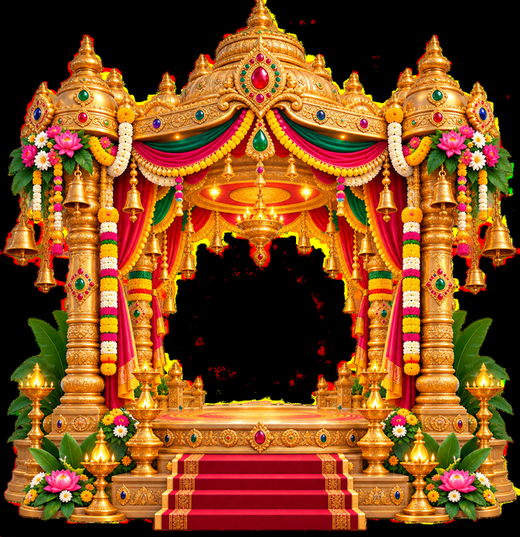
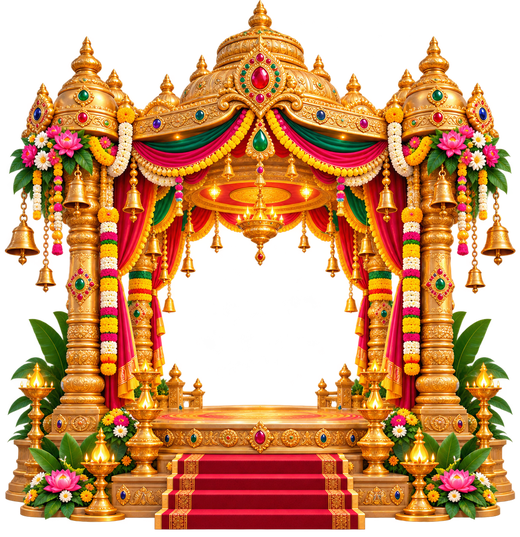
Game: transparent Mandapam, entry cutscene with Ganesha seated inside

diff --git a/frontend/src/components/ModakQuest.js b/frontend/src/components/ModakQuest.js
@@ -117,6 +117,7 @@ export default function ModakQuest({ onClose }) {
       items: [], obstacles: [], parts: [], petals: [], dust: [],
       bgX: 0, spawnT: 30, obsT: 90, flash: 0,
       gate: null, done: false, dead: false,
+      cut: null,   // entry cutscene: { t, gx, sitting }
     };
   }, []);
 
@@ -206,13 +207,14 @@ export default function ModakQuest({ onClose }) {
       if (g.sliding && --g.slideT <= 0) g.sliding = false;
       if (g.inv > 0) g.inv--;
 
-      if (g.sliding) g.frame = SLIDE_FRAME;
+      if (s.cut && s.cut.sitting) g.frame = SLIDE_FRAME;   // seated inside the Mandapam
+      else if (g.sliding) g.frame = SLIDE_FRAME;
       else if (g.onGround) {
         g.frameT += s.speed * 0.022;
         if (g.frameT >= 1) { g.frameT = 0; g.frame = (g.frame + 1) % FRAME_COUNT; }
       } else g.frame = 6;
 
-      const gx = W * 0.17;
+      const gx = s.cut ? W*0.17 + Math.min(1, s.cut.t/70) * (W*0.16) : W * 0.17;
       const gh = g.sliding ? g.h * 0.62 : g.h;
       const gw = g.sliding ? g.w * 1.12 : g.w;
       const gy = groundY - gh + g.y;
@@ -228,7 +230,7 @@ export default function ModakQuest({ onClose }) {
                                         return p.x > -30 && p.y < H+20; });
 
       /* ---- spawning (stops once the gate is in view) ---- */
-      if (!s.gate) {
+      if (!s.gate && !s.cut) {
         if (--s.spawnT <= 0) {
           s.spawnT = 46 + Math.random()*40;
           const n = 1 + Math.floor(Math.random()*4);
@@ -272,7 +274,7 @@ export default function ModakQuest({ onClose }) {
       for (const o of s.obstacles) {
         o.x -= s.speed;
         if (o.kind === 'mover') o.y = o.base + Math.sin(s.t/26 + o.ph) * o.amp;
-        if (g.inv > 0) continue;
+        if (g.inv > 0 || s.cut) continue;
         const ob = { x:o.x-o.w/2, y:o.y, w:o.w, h:o.h };
         if (hb.x < ob.x+ob.w && hb.x+hb.w > ob.x && hb.y < ob.y+ob.h && hb.y+hb.h > ob.y) {
           s.lives--; g.inv = 95; s.flash = 18;
@@ -381,6 +383,20 @@ export default function ModakQuest({ onClose }) {
       for (const p of s.parts) { ctx.globalAlpha=p.a; ctx.fillStyle='#ffd970';
         ctx.beginPath(); ctx.arc(p.x,p.y,p.r,0,7); ctx.fill(); }
       ctx.globalAlpha = 1;
+      if (s.cut && s.cut.sitting) {
+        const k = Math.min(1, (s.cut.t-0)/40);
+        const cgr = ctx.createRadialGradient(gx+30, groundY-80, 8, gx+30, groundY-80, 210);
+        cgr.addColorStop(0, `rgba(255,220,130,${0.34*k})`);
+        cgr.addColorStop(1, 'rgba(255,220,130,0)');
+        ctx.fillStyle = cgr; ctx.fillRect(gx-190, groundY-290, 440, 330);
+        ctx.globalAlpha = k; ctx.textAlign = 'center';
+        ctx.font = 'bold 22px Inter, sans-serif'; ctx.fillStyle = '#fff3d6';
+        ctx.shadowColor = 'rgba(0,0,0,.7)'; ctx.shadowBlur = 10;
+        ctx.fillText('गणपति बाप्पा मोरया!', W/2, groundY + 56);
+        ctx.font = '600 14px Inter, sans-serif';
+        ctx.fillText('Ganesha is seated in the Mandapam', W/2, groundY + 80);
+        ctx.shadowBlur = 0; ctx.globalAlpha = 1;
+      }
       if (s.flash > 0) { ctx.globalAlpha=s.flash/18*.45; ctx.fillStyle='#fff';
         ctx.fillRect(0,0,W,H); ctx.globalAlpha=1; s.flash--; }
 
@@ -388,12 +404,31 @@ export default function ModakQuest({ onClose }) {
         stage: s.stage, lives: s.lives, prog: Math.min(1, s.dist/s.goal) });
 
       /* ---- reached the Mandapa? ---- */
-      if (s.gate && s.gate.x + 150 <= gx && !s.done) {
-        s.done = true;
+      if (s.gate && s.gate.x + 150 <= gx && !s.cut) {
+        s.cut = { t: 0, sitting: false };
         s.score += 250 + s.lives * 100;                 // clear + life bonus
         setHud(h => ({ ...h, score: Math.floor(s.score) }));
-        setPhase(s.stage >= STAGES.length - 1 ? 'win' : 'stage');
-        return;
+      }
+      if (s.cut) {
+        s.cut.t++;
+        // step 1 - glide the world to a halt so he settles inside the Mandapam
+        s.speed *= 0.955;
+        if (s.speed < 0.35) s.speed = 0;
+        // step 2 - once still, he sits down
+        if (s.speed === 0 && !s.cut.sitting) {
+          s.cut.sitting = true;
+          for (let k = 0; k < 40; k++) {                 // blessing sparkles
+            const a = Math.random()*Math.PI*2, sp = 1+Math.random()*4;
+            s.parts.push({ x: gx+40, y: groundY-70, vx: Math.cos(a)*sp,
+                           vy: Math.sin(a)*sp-1, a: 1, r: 2+Math.random()*4 });
+          }
+        }
+        // step 3 - hold a beat on the seated pose, then show the card
+        if (s.cut.sitting && s.cut.t > 150 && !s.done) {
+          s.done = true;
+          setPhase(s.stage >= STAGES.length - 1 ? 'win' : 'stage');
+          return;
+        }
       }
       if (s.dead) {
         setHud({ score: Math.floor(s.score), modaks: s.modaks, stage: s.stage, lives: 0, prog: s.dist/s.goal });
